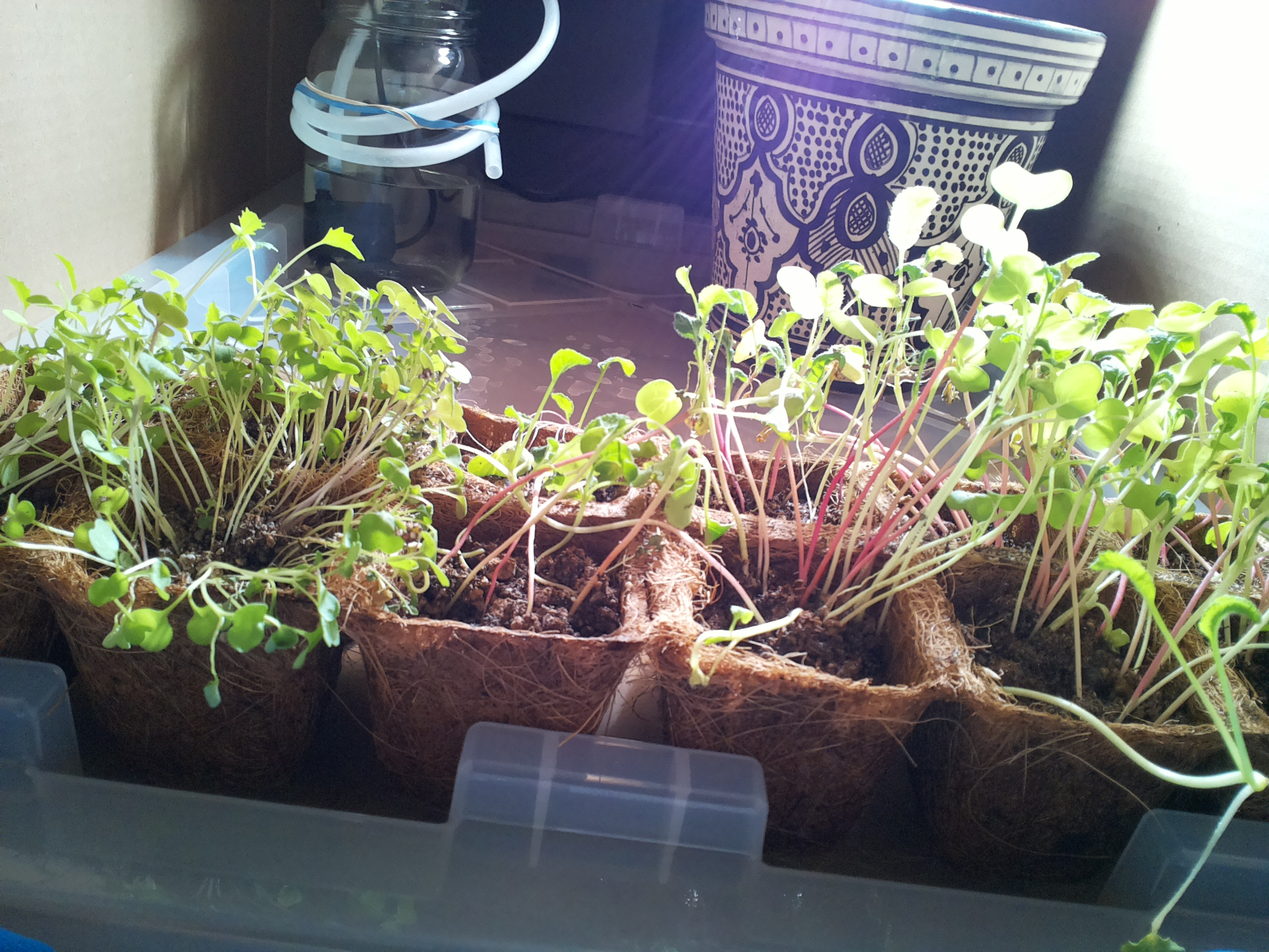
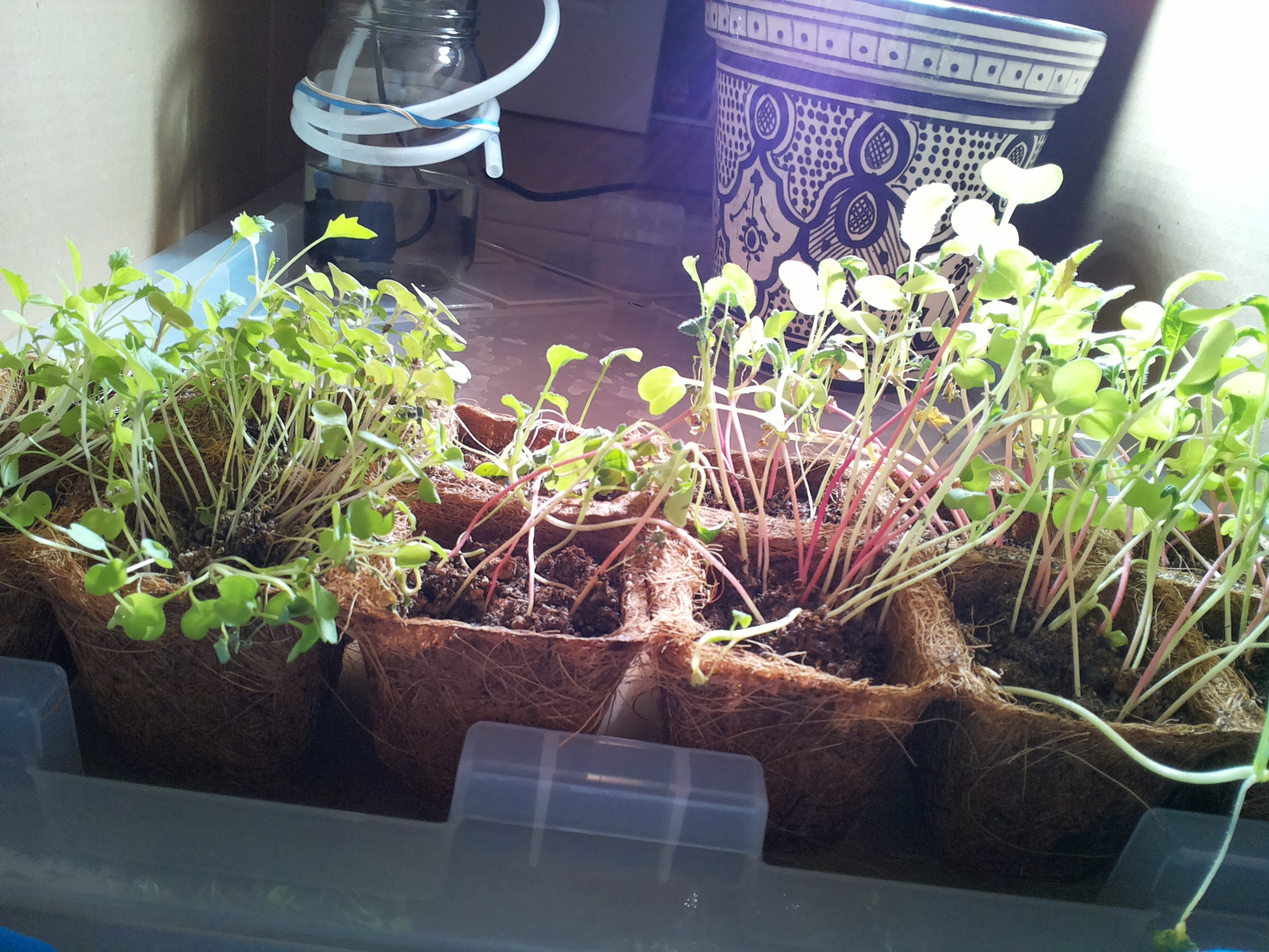
mirror sync 2026-09-16 07:20

Changed region(s): [[0.0, 0.0, 1.0, 1.0], [0.25, 0.0, 0.5312, 0.216]]

diff --git a/JOURNAL.md b/JOURNAL.md
@@ -525,3 +525,11 @@
 - Lamp: on — correct for photoperiod.
 - Watering: SKIPPED tonight's routine pulse — the midday exception already used today's full routine ration (8s of 60s cap), soil centers are damp, and the droop is not water stress. Routine policy resumes 07:12 tomorrow: pulse unless surfaces look dark.
 - Still pending: verify lamp-sync.sh fires in logs/cron.log after the next reboot.
+
+### 2026-09-16 07:12 — morning check-in (cron)
+- Photo: day 23. Seedlings green and turgid in all 12 cells; true leaves growing, pink stems (brassica-like, normal). Droop unchanged — splayed/kinked stems in the dense front-left and middle cells per standing order 6 (mechanical legginess, no extra water). Thinning/support still needs a human hand. No wilting, mold, pests, or tipping.
+- Jar: zoomed photo shows waterline around MID-BODY — consistent with last evening, pump still covered. Trend watch continues; end-game protocol reinstates when the line nears the pump body. Tube outlet in place pointing down over the lid.
+- Soil: mixed — dark damp centers, drier crumbly patches with perlite showing in the middle cells; coir walls pale. Not uniformly dark → pulse warranted.
+- Lamp: on — correct for photoperiod.
+- Watering: 4s pulse per standing order 2 (4s of 60s daily cap used; water.py OK, pump plug verified OFF after).
+- No changes to standing orders. Next: 13:07 observe-only; 19:22 pulse unless surfaces look dark. Still pending: verify lamp-sync.sh fires in logs/cron.log after the next reboot.
